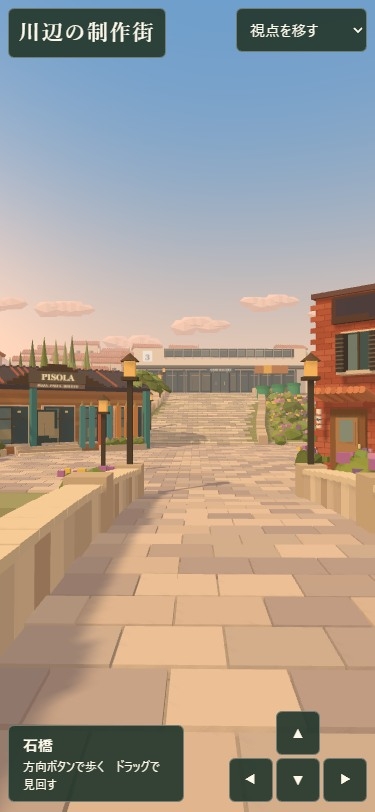
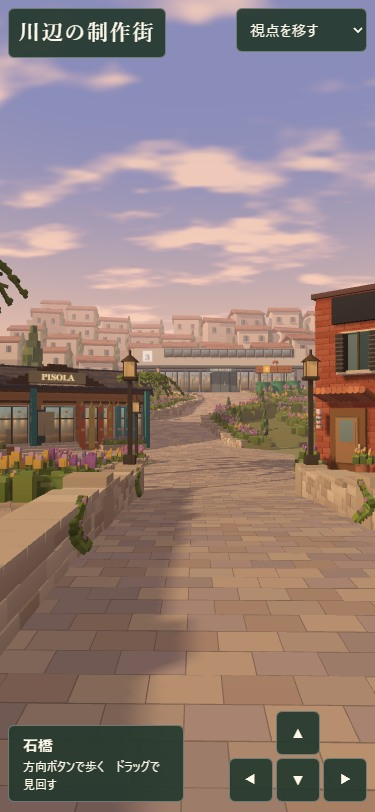
docs(prototype): compare the bridge approach and overview at two widths

diff --git a/prototype/review/compare.html b/prototype/review/compare.html
@@ -15,21 +15,25 @@
   figcaption { padding: .6rem 0; font-weight: 600 }
   img { display: block; width: 100%; height: auto; border-radius: 4px }
   .mobile { max-width: 790px }
+  .overview-shot { grid-column: 1 / -1 }
+  .mobile .overview-shot { max-width: 375px }
   [hidden] { display: none }
   @media(max-width:640px){ body { padding: 12px } .desktop { grid-template-columns: 1fr } .pair { gap: .5rem } }
 </style>
-<header><h1>石橋からの眺め</h1><a href="walk.html">街を歩く →</a></header>
+<header><h1>石橋と街区の俯瞰</h1><a href="walk.html">街を開く →</a></header>
 <div class="options" role="group" aria-label="撮影サイズ">
   <label><input type="radio" name="size" value="desktop" checked> PC · 1280 × 800</label>
   <label><input type="radio" name="size" value="mobile"> スマホ · 375 × 812</label>
 </div>
 <section class="pair desktop" aria-label="PCの比較">
-  <figure><figcaption>変更前</figcaption><img src="before-bridge-1280.jpg" alt="直線的な坂と広場を石橋から見た変更前の街区"></figure>
-  <figure><figcaption>変更後</figcaption><img src="bridge-1280.jpg" alt="段花壇に沿って曲がる坂と、夕日の当たる石積み"></figure>
+  <figure><figcaption>石橋 · 変更前</figcaption><img src="before-bridge-1280.jpg" alt="前回レビューした石橋からの眺め"></figure>
+  <figure><figcaption>石橋 · 変更後</figcaption><img src="bridge-1280.jpg" alt="川岸の枝越しに見えるPISOLA、石畳とSISTERの店先"></figure>
+  <figure class="overview-shot"><figcaption>街を眺める · 初期視点</figcaption><img src="overview-1280.jpg" alt="川の手前から石橋、両店、丘の展示館までを見渡した俯瞰"></figure>
 </section>
 <section class="pair mobile" aria-label="スマートフォン幅の比較" hidden>
   <figure><figcaption>変更前</figcaption><img src="before-bridge-375.jpg" alt="375px幅で撮影した変更前の石橋"></figure>
   <figure><figcaption>変更後</figcaption><img src="bridge-375.jpg" alt="同じ縦画角で花壇の間を抜ける坂を見た変更後の石橋"></figure>
+  <figure class="overview-shot"><figcaption>街を眺める · 初期視点</figcaption><img src="overview-375.jpg" alt="375px幅で川、橋、3店舗を収めた俯瞰"></figure>
 </section>
 <script>
   document.querySelector('.options').addEventListener('change', event => {

diff --git a/prototype/README.md b/prototype/README.md
@@ -1,19 +1,34 @@
 # 川辺の制作街・街区レビュー
 
-このフォルダーの index.html をブラウザーで開く。Three.js r160（0.160.1、MIT）を vendor/ に同梱しており、ビルドや外部配信は不要。WebGLを利用する。
+[街を開く](review/walk.html) ／ [石橋の変更前後と俯瞰を比較する](review/compare.html)
 
-WASD・矢印で前後左右へ歩き、ドラッグで見回す。Q/Eでも左右を向ける。スマホでは画面右下のボタンを押し続けて移動する。「視点を移す」で石橋・各店先・丘の前庭へ戻れる。入口に近づくと現在地の表示が変わる。
+初回は石橋で「歩く」から始まる。左手のPISOLA、右手のSISTER、その奥の坂の上にゲーム展示館がある。「街を眺める」を選ぶと、同じ街区を川の上から見渡せる。歩行中の地点・向き・画角は、俯瞰から「歩く」に戻ると復帰する。
 
-添付写真・店舗のイラストを形状の参考にし、外観、看板、家具、植栽は試作用に立体で構成した。石橋の岸から丘の前庭、3棟の入口までがレビュー対象。公開サイトと既存の展示は dist/ にある。
+| モード | PC | タッチ |
+| --- | --- | --- |
+| 歩く | WASD・矢印で前後左右に歩く。ドラッグで見回し、Q/Eで左右を向く | 方向ボタンを押し続けて歩く。1本指で見回す |
+| 街を眺める | ドラッグまたはQ/Eで回転。ホイール・＋/－でズーム。右ドラッグ・Shift＋ドラッグ・WASD・矢印で移動 | 1本指で回転。2本指をそろえて移動。ピンチでズーム |
 
-## 石橋からの比較
+歩行中は「視点を移す」で石橋・各店先・丘の前庭へ移れる。入口に近づくと現在地に入口名が表示される。
 
-[変更前後を見る](review/compare.html) ／ [街を歩く（単独で開けるHTML）](review/walk.html)
+## 景観と撮影条件
 
-引き継ぎ時点（`3710798`）には、3棟の外観、橋、坂、前庭、入口までの歩行があった。今回、橋の先を各店の入口で広がる石畳にし、その奥を二度曲がって約4.2m登る道にした。石積みの段花壇、瓦の重なり、軒下の影、夕空を映す窓を加えた。
+前回レビュー版（`ad75f58`）を比較元にした。石橋の座標は `(-0.65, 2.25334, 22)`、向きは yaw `0.015`、pitch `0.012` ラジアン。変更前後ともPCは1280×800・縦画角60°、スマホ幅は375×812・縦画角78°、DPRは1で撮影した。
 
-比較画像は変更前後とも石橋の同じ地点で撮影した。座標は `(-0.65, 2.25334, 22)`、向きは yaw `0.015`、pitch `0.012` ラジアン。PCは1280×800・縦画角60°、スマホ幅は375×812・縦画角78°。各サイズともDPRは1。
+川面の反射、岸の岩と木陰、店先の花穂、石積みの目地、木の横張りと軒裏が距離に応じて読めるようにした。PISOLAの三角看板・青緑の柱、SISTERの鎧戸・2枚の緑のひさし、丘の展示館の水平窓と前庭はそれぞれの元画像を参照した。
 
-Windows版Chromeで単独HTMLを開き、PCはキーボード、スマホ幅は模擬タッチで方向ボタンを押した。両方とも石橋からSISTER、PISOLA、ゲーム展示館へ連続して歩き、各扉の前で入口名が表示された。橋の欄干に向かって歩き続けても川へ出ないことを確認した。スマホ実機の速度とSafariは未計測。
+| 実描画 | PC | スマホ幅 |
+| --- | --- | --- |
+| 石橋 | [変更前](review/before-bridge-1280.jpg)・[変更後](review/bridge-1280.jpg) | [変更前](review/before-bridge-375.jpg)・[変更後](review/bridge-375.jpg) |
+| 街区の俯瞰 | [1280px](review/overview-1280.jpg) | [375px](review/overview-375.jpg) |
+| PISOLAの店先 | [1280px](review/pisola-1280.jpg) | [375px](review/pisola-375.jpg) |
+| SISTERの店先 | [1280px](review/sister-1280.jpg) | [375px](review/sister-375.jpg) |
+| 丘の前庭 | [1280px](review/hill-1280.jpg) | [375px](review/hill-375.jpg) |
 
-単独HTMLは `python prototype/review/build_walk.py` で通常の試作と同じソースから再生成できる。
+## 動作確認
+
+Windows版Chrome・Intel Iris Xe（D3D11）で単独HTMLを開いた。PCではマウスとキーボード、375px幅では模擬タッチを使って回転・移動・ズームを行い、歩行復帰前後の座標・回転・画角の一致を確認した。俯瞰の移動キーを押したまま歩行へ戻しても足元は動かなかった。別に、石橋からSISTER、PISOLA、ゲーム展示館へ視点切り替えを使わず連続歩行し、両サイズで3つの入口名を確認した。
+
+描画負荷は同じPCで、歩行中と俯瞰回転中に各90フレームのアニメーションフレーム間隔を測定した。両サイズ・両モードとも中央値16.7ms、95パーセンタイル16.8ms。初期俯瞰の描画はPCで169ドロー・655,812三角形、375px幅で149ドロー・632,778三角形。静止時はカメラや画面サイズが変わるまで再描画しない。スマートフォン実機の速度とSafariは未計測。
+
+`index.html` が通常の入口。`python prototype/review/build_walk.py` で同じソースから単独HTMLを再生成できる。Three.js r160（0.160.1、MIT）を同梱しており、ローカルでWebGLが使えるブラウザーから開ける。
